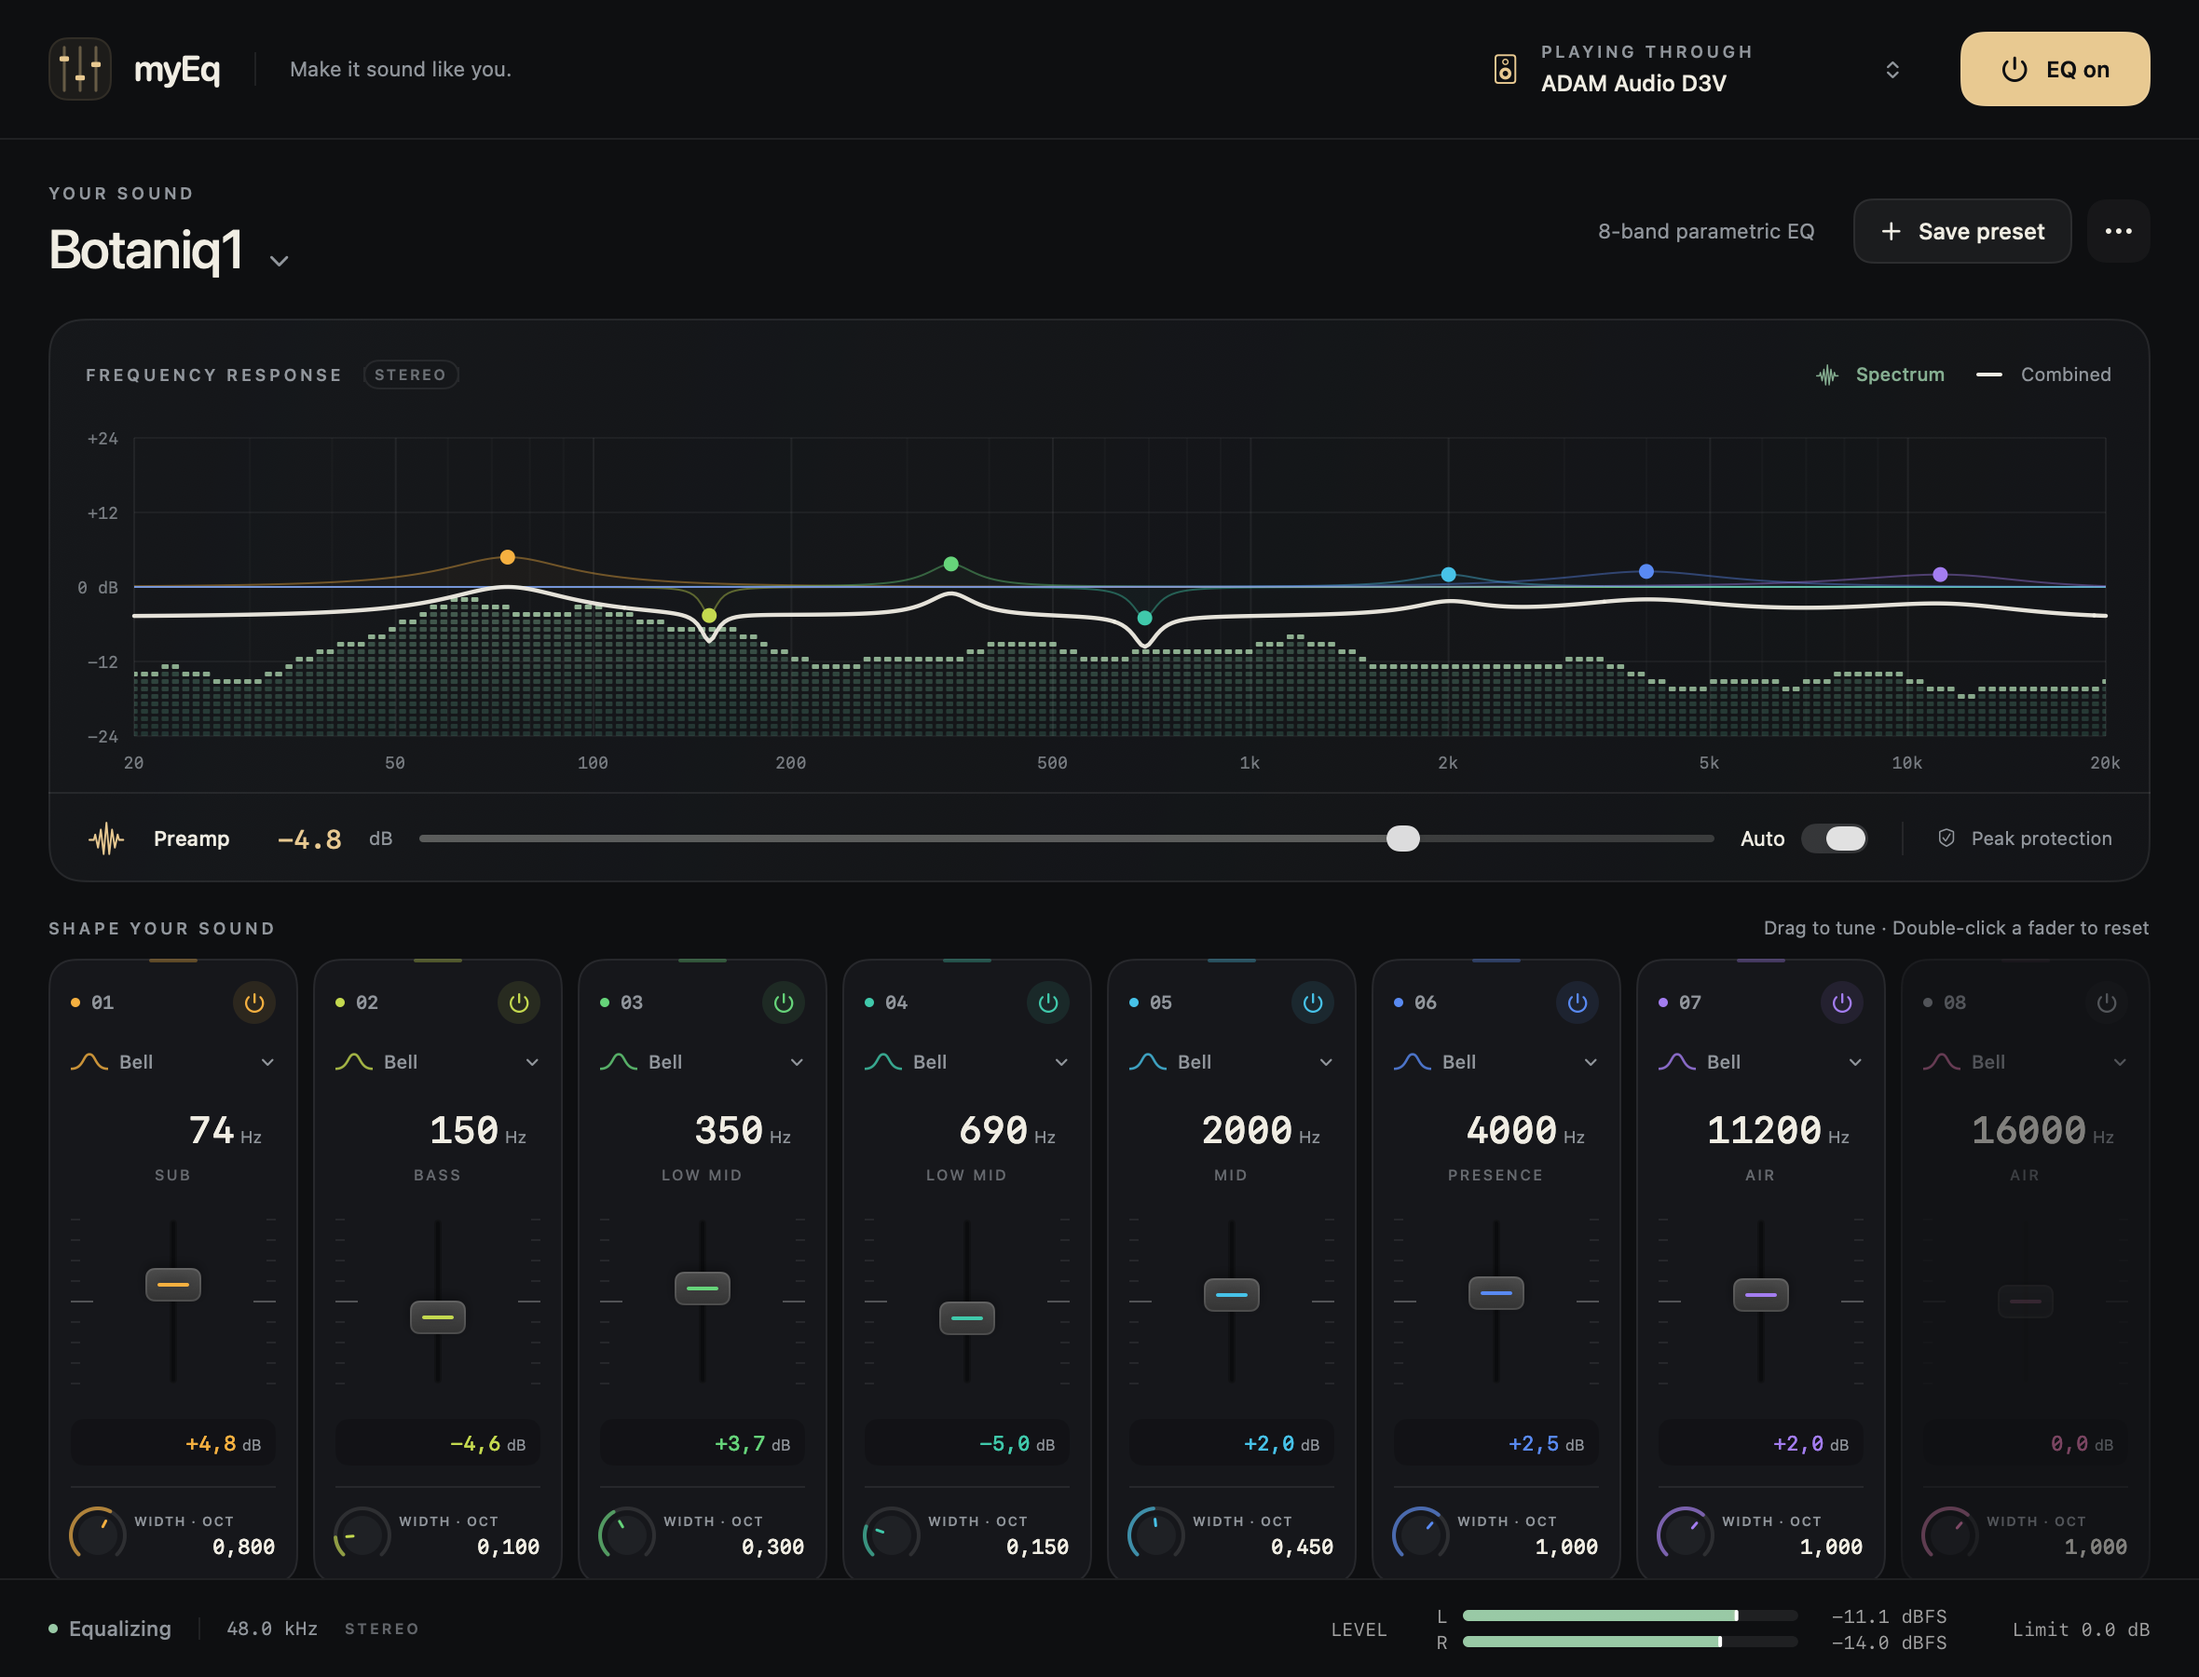
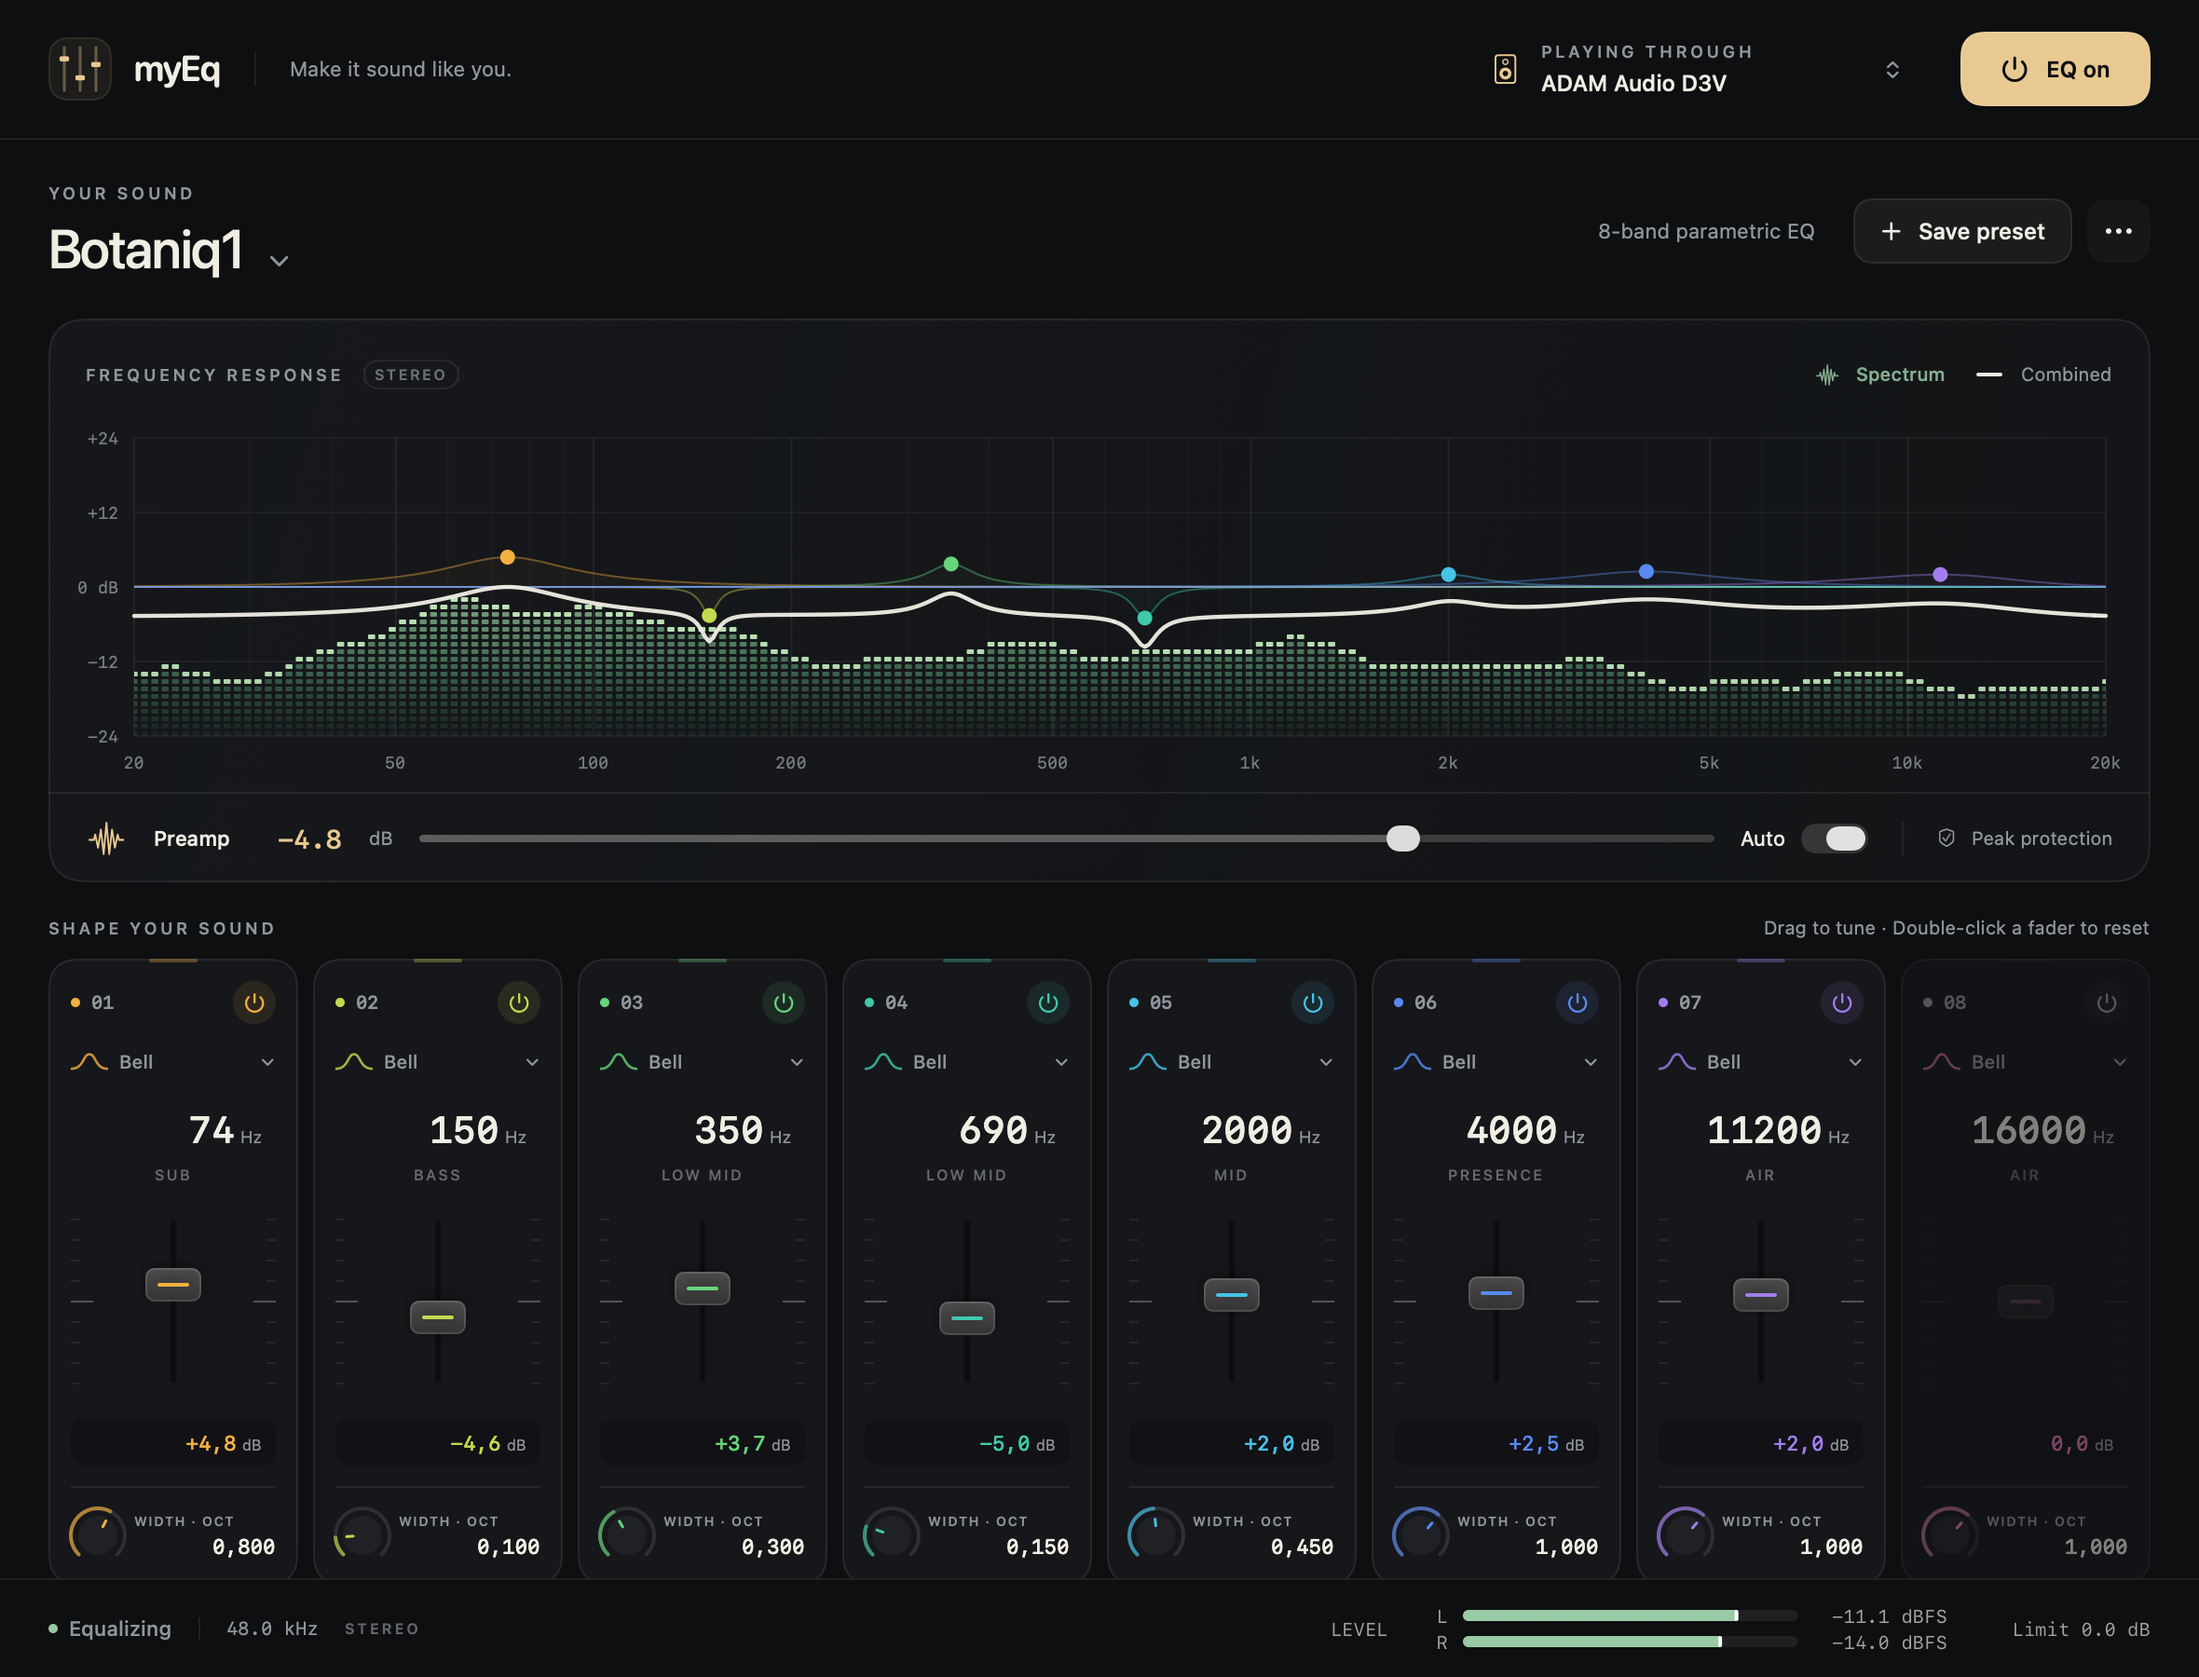
Strengthen LED spectrum gradient for design preview

Changed region(s): [[0.1237, 0.3422, 0.7424, 0.4044]]

diff --git a/Sources/MyEqApp/InputSpectrumView.swift b/Sources/MyEqApp/InputSpectrumView.swift
@@ -52,16 +52,17 @@ final class SpectrumLayerView: NSView {
     plotLayer.masksToBounds = true
     layer?.addSublayer(plotLayer)
     fill.colors = [
-      NSColor(red: 0.91, green: 0.79, blue: 0.57, alpha: 0.52).cgColor,
-      NSColor(red: 0.60, green: 0.79, blue: 0.65, alpha: 0.44).cgColor,
-      NSColor(red: 0.29, green: 0.57, blue: 0.48, alpha: 0.24).cgColor,
+      NSColor(red: 0.86, green: 0.96, blue: 0.80, alpha: 0.88).cgColor,
+      NSColor(red: 0.66, green: 0.86, blue: 0.66, alpha: 0.76).cgColor,
+      NSColor(red: 0.35, green: 0.62, blue: 0.46, alpha: 0.58).cgColor,
+      NSColor(red: 0.12, green: 0.25, blue: 0.20, alpha: 0.30).cgColor,
     ]
-    fill.locations = [0, 0.3, 1]
+    fill.locations = [0, 0.35, 0.7, 1]
     fill.startPoint = CGPoint(x: 0.5, y: 0.25)
     fill.endPoint = CGPoint(x: 0.5, y: 1)
     fill.mask = barMask
     plotLayer.addSublayer(fill)
-    tips.fillColor = NSColor(red: 0.73, green: 0.88, blue: 0.72, alpha: 0.65).cgColor
+    tips.fillColor = NSColor(red: 0.80, green: 0.94, blue: 0.76, alpha: 0.82).cgColor
     plotLayer.addSublayer(tips)
     setAccessibilityElement(false)
   }

diff --git a/docs/ARCHITECTURE.md b/docs/ARCHITECTURE.md
@@ -60,7 +60,7 @@ The editor optionally shows a segmented LED pre-EQ spectrum underneath the respo
 
 The FFT length is the nearest power of two to 171 ms of audio, clamped to 4,096–32,768 frames (8,192 at 48 kHz). Each channel uses a periodic Hann window and an Accelerate real FFT. Normalized channel powers are averaged, preserving opposite-phase stereo energy; the normalization gives a bin-centered full-scale sine 0 dBFS when both channels contain it, and a single active channel reads 3 dB lower. Each of 192 logarithmic bands takes the peak power in its bin range, interpolating when no bin falls inside it. This is a peak spectral display, not a broadband RMS meter or a measurement-grade room analyzer. Silent input skips the FFT; invalid samples become zero in the analysis copy. A 45 ms attack/250 ms release envelope uses actual elapsed time. Frames older than 250 ms are discarded rather than replayed.
 
-`InputSpectrumModel` sends frames directly to an AppKit layer view without publishing `AppModel` changes or rebuilding the SwiftUI response Canvas. The x-axis matches the EQ graph's 20 Hz–min(20 kHz, 0.45 × sample rate) range. A fixed −90–0 dBFS scale occupies the lower 75% of the plot, independent of the EQ-gain axis. Each of the 192 logarithmic samples drives one segmented bar at the original sample position, independent of the EQ control points. A single gradient masked by the combined bar path supplies muted teal/sage cells and warm upper levels; a second shape layer highlights each bar's top cell. Cells are 2.5 points tall on a 4-point pitch, with horizontal gaps proportional to sample spacing. The first and last columns are centered on the frequency limits and clipped at the plot edges. No historical outlines or blur filters remain. One 30 Hz main-run-loop timer coalesces incoming frames, rebuilding the two paths only when data or plot size changes. Existing analyzer attack/release smoothing controls heights. Missing frames fade after 150 ms with a 280 ms time constant and clear after 1.1 seconds. Silence, invalid frames and off/hidden states clear layers and stop the drawing timer. Reduce Motion switches both analyzer and drawing cadence to 10 Hz.
+`InputSpectrumModel` sends frames directly to an AppKit layer view without publishing `AppModel` changes or rebuilding the SwiftUI response Canvas. The x-axis matches the EQ graph's 20 Hz–min(20 kHz, 0.45 × sample rate) range. A fixed −90–0 dBFS scale occupies the lower 75% of the plot, independent of the EQ-gain axis. Each of the 192 logarithmic samples drives one segmented bar at the original sample position, independent of the EQ control points. A single gradient masked by the combined bar path supplies a four-stop gradient from dark teal bottom rows to pale sage upper rows; a second shape layer highlights each bar's top cell. Cells are 2.5 points tall on a 4-point pitch, with horizontal gaps proportional to sample spacing. The first and last columns are centered on the frequency limits and clipped at the plot edges. No historical outlines or blur filters remain. One 30 Hz main-run-loop timer coalesces incoming frames, rebuilding the two paths only when data or plot size changes. Existing analyzer attack/release smoothing controls heights. Missing frames fade after 150 ms with a 280 ms time constant and clear after 1.1 seconds. Silence, invalid frames and off/hidden states clear layers and stop the drawing timer. Reduce Motion switches both analyzer and drawing cadence to 10 Hz.
 
 ## Editor and menu presentation
 

diff --git a/docs/VERIFICATION.md b/docs/VERIFICATION.md
@@ -482,3 +482,7 @@ Verification:
 - `bash scripts/benchmark-spectrum.sh`: eight seconds per mode with synthetic 48 kHz stereo input and an offscreen native view. Spectrum off uses 0.81% of one CPU core, visible 30 Hz uses 3.14%, Reduce Motion 10 Hz uses 1.40%, and hidden uses 0.84%. The visible increment is 2.33 percentage points. There are zero dropped snapshots; off and hidden capture/deliver zero frames. This single run includes generated audio and DSP but excludes installed-app audio routing and visible compositor/GPU work.
 
 No package was installed and no live playback or installed-window interaction was tested for this change.
+
+### Stronger LED gradient preview
+
+The follow-up palette uses four gradient stops, progressing from dark teal bottom rows to pale sage upper rows, with brighter top cells. `bash scripts/render-design.sh --preview-only` successfully built and generated both editor sizes; both were visually inspected for the requested stronger contrast. Formatting, repository checks, and `git diff --check` pass. This palette-only revision is presented for user design approval; the automated UI/audio suites were not rerun and the installed app was not changed.
